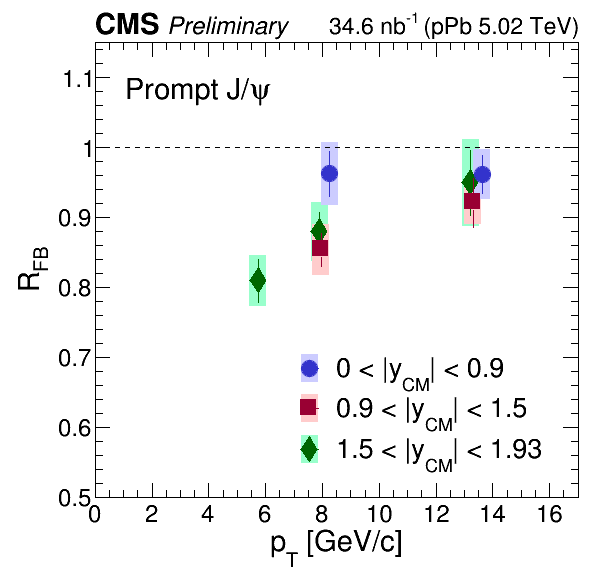
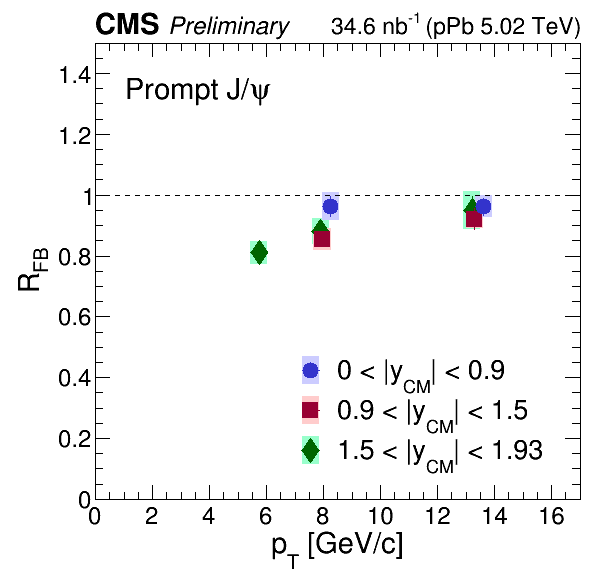
y-axis check

diff --git a/analysisMacros/DrawFinalPlot/draw_RpPb_pt.C b/analysisMacros/DrawFinalPlot/draw_RpPb_pt.C
@@ -181,9 +181,10 @@ void draw_RpPb_pt(bool sysByHand=true, bool noPtWeight=false, bool isPrompt=true
     g_RpPb_sys[iy]->GetYaxis()->SetLabelSize(0.055);
     g_RpPb_sys[iy]->GetYaxis()->CenterTitle();
     g_RpPb_sys[iy]->GetXaxis()->SetLimits(0.,20.0);
-    g_RpPb_sys[iy]->SetMinimum(0.5);
-    //g_RpPb_sys[iy]->SetMaximum(1.15);
-    g_RpPb_sys[iy]->SetMaximum(1.5);
+    //g_RpPb_sys[iy]->SetMinimum(0.5);
+    //g_RpPb_sys[iy]->SetMaximum(1.5);
+    g_RpPb_sys[iy]->SetMinimum(0.0);
+    g_RpPb_sys[iy]->SetMaximum(1.8);
   } 
   g_RpPb_sys[0]->SetFillColor(kTeal-9);
   g_RpPb_sys[1]->SetFillColor(kRed-9);

diff --git a/analysisMacros/DrawFinalPlot/draw_RFB_pt.C b/analysisMacros/DrawFinalPlot/draw_RFB_pt.C
@@ -216,9 +216,10 @@ void draw_RFB_pt(bool sysByHand=true, bool noPtWeight=false, bool isPrompt=true)
 	gRFB_sys[0]->GetYaxis()->SetTitle("R_{FB}");
 	gRFB_sys[0]->GetYaxis()->CenterTitle();
 	gRFB_sys[0]->GetXaxis()->SetLimits(0.,17.0);
-	gRFB_sys[0]->SetMinimum(0.5);
-	gRFB_sys[0]->SetMaximum(1.15);
-//	gRFB_sys[0]->SetMaximum(1.5);
+//	gRFB_sys[0]->SetMinimum(0.5);
+//	gRFB_sys[0]->SetMaximum(1.15);
+	gRFB_sys[0]->SetMinimum(0.0);
+	gRFB_sys[0]->SetMaximum(1.5);
 	gRFB_sys[0]->SetFillColor(kTeal-9);
 	gRFB_sys[0]->Draw("A2");
 	gRFB_sys[1]->SetFillColor(kRed-10);
